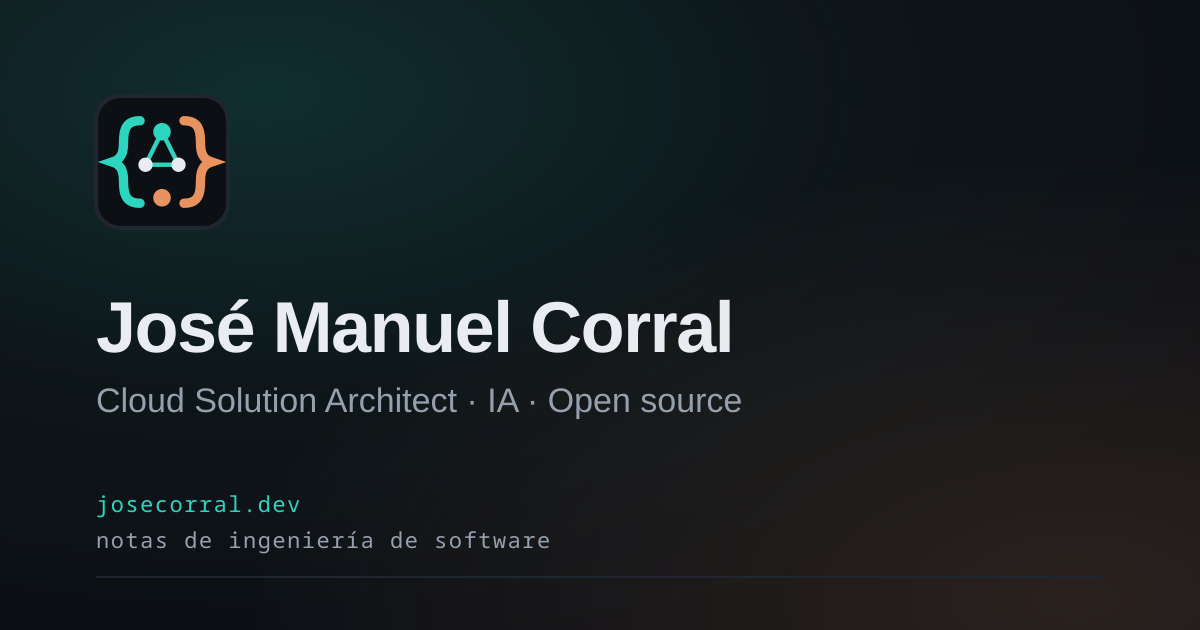
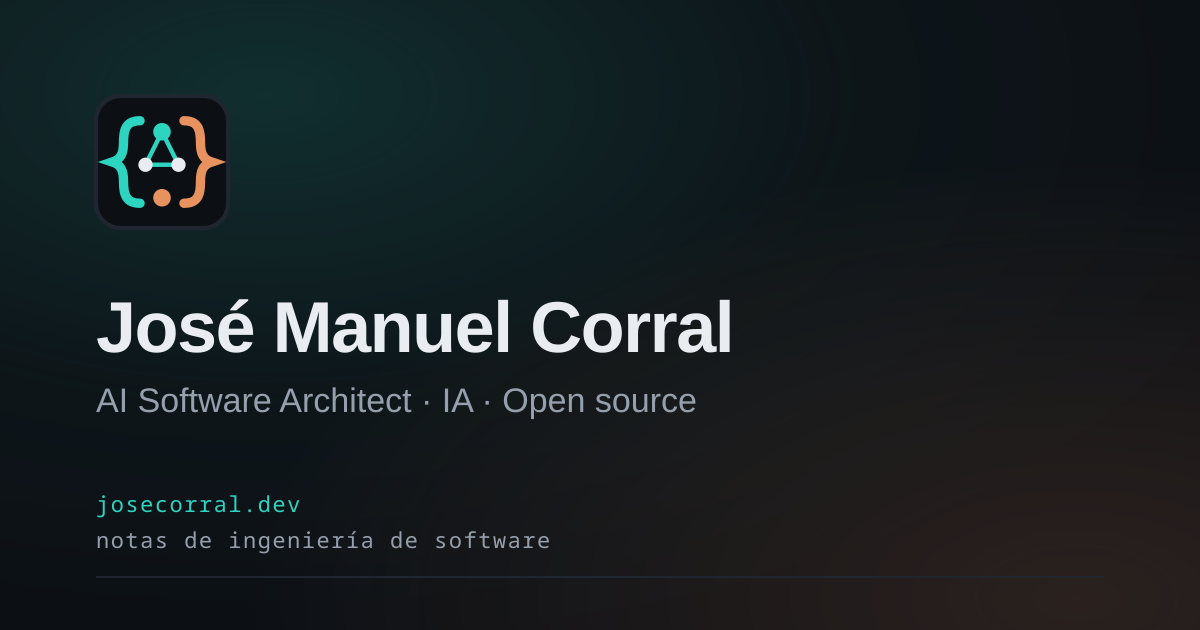
feat: feature bond and fluzo and retitle the role
Replace openteam with bond and fluzo as half-width flagship cards,
change the role to AI Software Architect and regenerate the share image.

Changed region(s): [[0.0617, 0.6032, 0.6167, 0.6635]]

diff --git a/src/data/portfolio.ts b/src/data/portfolio.ts
@@ -29,18 +29,34 @@ export interface FeaturedRepo {
 export const FEATURED_REPOS: FeaturedRepo[] = [
   {
     variant: 'flag',
-    name: 'openteam',
-    url: 'https://github.com/jmanuelcorral/openteam',
-    docsUrl: 'https://github.com/jmanuelcorral/openteam#readme',
-    language: { es: 'multi-agente', en: 'multi-agent' },
+    name: 'bond',
+    url: 'https://github.com/jmanuelcorral/bond',
+    docsUrl: 'https://josecorral.dev/bond/',
+    language: { es: 'TypeScript', en: 'TypeScript' },
     languageClass: 'st-exp',
     badge: { es: 'Proyecto principal · maintainer', en: 'Flagship project · maintainer' },
     badgeClass: 'badge',
     showIcon: true,
-    tags: ['agents', 'orchestration', 'routing', 'telemetry'],
+    tags: ['agents', 'cli', 'herdr', 'worktrees'],
     desc: {
-      es: 'Orquestación de equipos de agentes de IA: un árbol de agentes en tiempo real con routing, telemetría y harness configurable (prompt, skills, herramientas). El proyecto en el que más estoy trabajando ahora mismo.',
-      en: "Orchestration of AI agent teams: a real-time agent tree with routing, telemetry and a configurable harness (prompt, skills, tools). The project I'm working on the most right now.",
+      es: 'Tus agentes de código, trabajando juntos: configura una vez por repo a pi, Claude Code, Codex, Copilot, opencode, Crush o Gemini, ábrelos en Herdr y reparte el trabajo entre varios agentes, cada uno en su rama y su worktree.',
+      en: 'Your coding agents, working together: configure pi, Claude Code, Codex, Copilot, opencode, Crush or Gemini once per repo, open them in Herdr and split the work across several agents, each on its own branch and worktree.',
+    },
+  },
+  {
+    variant: 'flag',
+    name: 'fluzo',
+    url: 'https://github.com/fluzo-labs/fluzo',
+    docsUrl: 'https://fluzo-labs.github.io/fluzo-docs/',
+    language: { es: 'Rust', en: 'Rust' },
+    languageClass: 'st-exp',
+    badge: { es: 'Proyecto principal · maintainer', en: 'Flagship project · maintainer' },
+    badgeClass: 'badge',
+    showIcon: true,
+    tags: ['agents', 'rust', 'local-first', 'tui'],
+    desc: {
+      es: 'Mi entorno de programación agéntica: un runtime local-first escrito en Rust. El MVP, en desarrollo, incluirá CLI/TUI y un agente de código con permisos, presupuestos y cancelación explícitos.',
+      en: 'My agentic programming environment: a local-first runtime written in Rust. The MVP, in progress, will include a CLI/TUI and a coding agent with explicit permissions, budgets and cancellation.',
     },
   },
   {

diff --git a/src/copy/site.ts b/src/copy/site.ts
@@ -19,12 +19,12 @@ export const SEO_COPY: Record<Locale, SeoCopy> = {
   es: {
     title: 'José Manuel Corral — Cloud & AI · Open Source',
     description:
-      'Cloud Solution Architect especializado en Azure, IA, arquitecturas multi-agente y RAG. Portfolio open source, CV y experimentos de IA local.',
+      'AI Software Architect especializado en Azure, IA, arquitecturas multi-agente y RAG. Portfolio open source, CV y experimentos de IA local.',
   },
   en: {
     title: 'José Manuel Corral — Cloud & AI · Open Source',
     description:
-      'Cloud Solution Architect specialized in Azure, AI, multi-agent architectures and RAG. Open source portfolio, résumé and local-AI experiments.',
+      'AI Software Architect specialized in Azure, AI, multi-agent architectures and RAG. Open source portfolio, résumé and local-AI experiments.',
   },
 };
 
@@ -32,13 +32,13 @@ export const FOOT_COPY: Record<Locale, FootCopy> = {
   es: {
     code: 'Código →',
     docs: 'Documentación →',
-    role: 'Cloud Solution Architect',
+    role: 'AI Software Architect',
     cvStandard: 'CV standard',
   },
   en: {
     code: 'Code →',
     docs: 'Documentation →',
-    role: 'Cloud Solution Architect',
+    role: 'AI Software Architect',
     cvStandard: 'CV standard',
   },
 };
